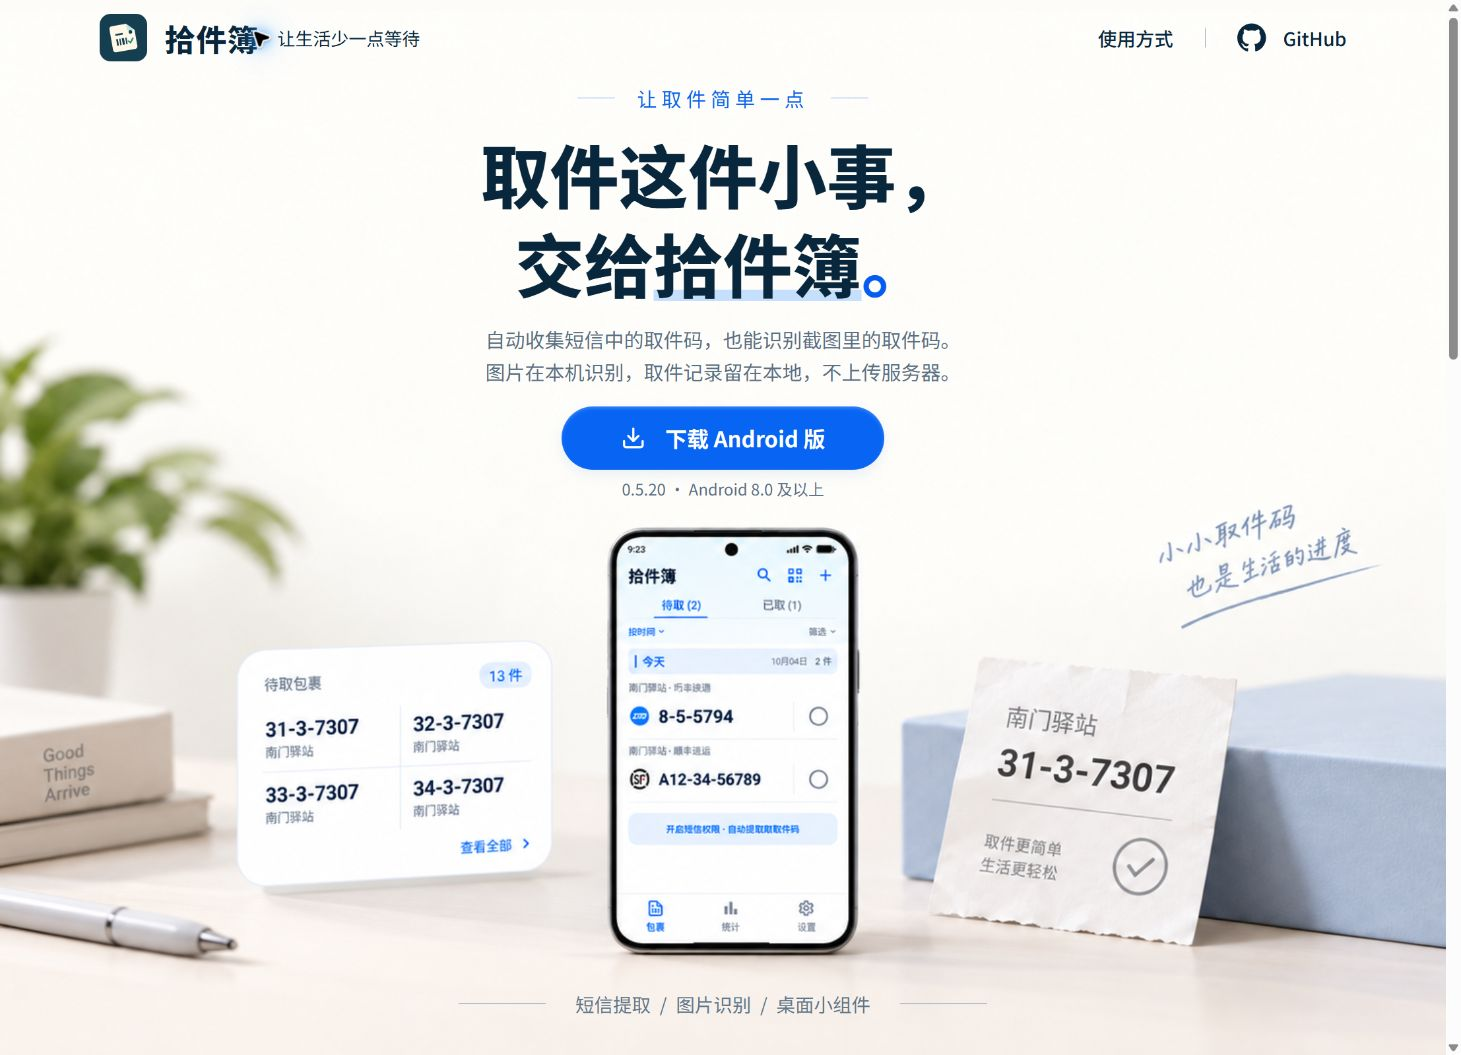
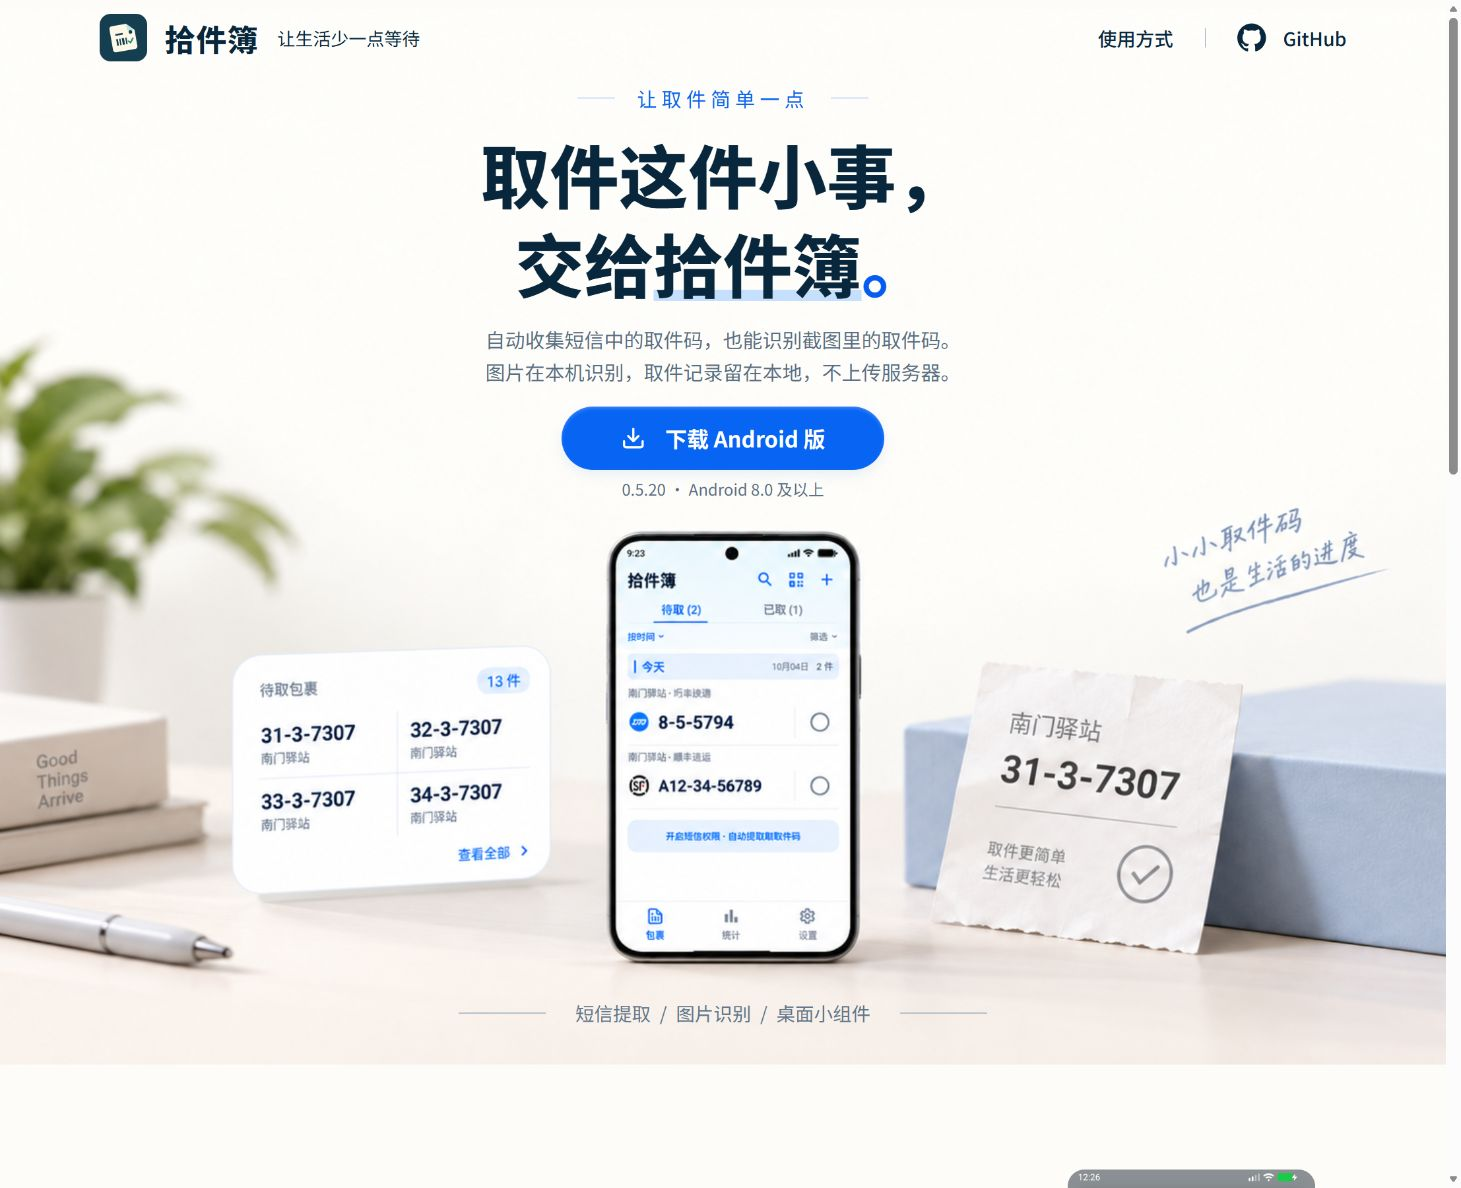
Add Shijianbu official website and GitHub Pages deployment

diff --git a/website/src/styles.css b/website/src/styles.css
@@ -11,9 +11,9 @@ p, h1, h2, h3, figure { margin: 0; }
 .sr-only { position: absolute; width: 1px; height: 1px; padding: 0; margin: -1px; overflow: hidden; clip: rect(0, 0, 0, 0); white-space: nowrap; border: 0; }
 .skip-link { position: fixed; z-index: 20; top: 10px; left: 12px; padding: 10px 16px; background: white; transform: translateY(-150%); }
 .skip-link:focus { transform: none; }
-.hero-shell { position: relative; isolation: isolate; height: calc(100vw * 1066 / 1476); min-height: 980px; max-height: 1250px; overflow: hidden; }
+.hero-shell { --scene-width: min(100vw, 1476px); position: relative; isolation: isolate; min-height: 980px; padding-bottom: calc(var(--scene-width) * 536 / 1476 + 32px); overflow: hidden; }
 .hero-art { position: absolute; z-index: -1; inset: 0; }
-.hero-scene { position: absolute; bottom: 0; width: 100%; height: auto; }
+.hero-scene { position: absolute; bottom: 0; width: var(--scene-width); max-width: none; height: auto; left: 50%; transform: translateX(-50%); }
 .site-header { max-width: 1260px; margin-inline: auto; height: 76px; display: flex; align-items: center; justify-content: space-between; gap: 24px; position: relative; z-index: 2; }
 .brand { display: inline-flex; align-items: center; gap: 18px; white-space: nowrap; }
 .brand img { width: 48px; height: 48px; }
@@ -79,10 +79,10 @@ h2 { font-size: 34px; line-height: 1.5; font-weight: 750; letter-spacing: -.025e
 .site-footer .footer-note { flex-basis: 100%; margin-top: 0; padding-top: 20px; border-top: 1px solid #e1e6e9; font-size: 12px; color: var(--muted); }
 @media (min-width: 1600px) { .hero-copy { padding-top: 30px; } h1 { font-size: 76px; } .hero-description { font-size: 22px; } }
 @media (max-width: 1439px) { .site-header, .section-wrap { margin-inline: 6%; } .hero-copy { padding-top: 0; } h1 { font-size: 60px; margin-top: 16px; } .hero-description { font-size: 18px; } .hero-copy .download-button { margin-top: 19px; } .how-section { gap: 32px; grid-template-columns: 1fr 1.2fr 220px; } .app-preview, .app-preview img { width: 220px; } h2 { font-size: 30px; } }
-@media (max-width: 1050px) { .brand-tagline { display: none; } .hero-shell { min-height: 950px; } .hero-scene { width: 1177px; max-width: none; left: 50%; transform: translateX(-50%); } .hero-description { font-size: 18px; } h1 { font-size: 58px; } .how-section { grid-template-columns: 1fr 1.3fr; gap: 42px; padding-block: 74px; } .app-preview { grid-column: 1 / -1; width: 240px; margin: 8px auto 0; } .app-preview img { width: 240px; } .faq-section { gap: 45px; } }
+@media (max-width: 1050px) { .brand-tagline { display: none; } .hero-shell { --scene-width: 1177px; min-height: 950px; } .hero-scene { width: 1177px; max-width: none; left: 50%; transform: translateX(-50%); } .hero-description { font-size: 18px; } h1 { font-size: 58px; } .how-section { grid-template-columns: 1fr 1.3fr; gap: 42px; padding-block: 74px; } .app-preview { grid-column: 1 / -1; width: 240px; margin: 8px auto 0; } .app-preview img { width: 240px; } .faq-section { gap: 45px; } }
 @media (max-width: 640px) {
   html { scroll-padding-top: 20px; }
-  .hero-shell { display: flex; flex-direction: column; height: auto; min-height: 0; max-height: none; }
+  .hero-shell { display: flex; flex-direction: column; height: auto; min-height: 0; max-height: none; padding-bottom: 0; }
   .site-header { order: 0; width: auto; margin-inline: 22px; height: 82px; gap: 12px; }
   .brand { gap: 10px; } .brand img { width: 36px; height: 36px; } .brand-name { font-size: 23px; }
   .site-header nav { gap: 17px; font-size: 14px; } .nav-divider { display: none; } .site-header nav a { gap: 7px; } .github-link svg { width: 22px; height: 22px; } .github-link > span:not(.sr-only) { display: none; }

diff --git a/website/design-qa.md b/website/design-qa.md
@@ -49,4 +49,10 @@ Numeric contrast checking found [P2] smaller semantic text colors at ratios 3.94
 - [x] Vite production build uses relative paths for GitHub project Pages.
 - Live deployment verification is recorded separately in `../deliverables/website-publication.json`.
 
+## Iteration 4 — wide-screen overlap regression, passed
+
+User evidence exposed a P2 regression outside the original viewport matrix. At 2560 CSS px, the absolutely positioned scene grew while the shell was capped at 1250 px; phone top crossed metadata bottom by 226.32 px. Removed the fixed/capped shell height. Content now determines height, with bottom space derived from the scene's phone position plus a 32 px gap. Scene width is capped at the 1476 px reference composition; tablet uses its existing 1177 px composition and mobile retains its separate scene row.
+
+Browser measurements at 3440, 2560, 1920 and 1476 px show a 32 px metadata-to-phone gap. At 1024/768 it is 57.97 px, and at 390/320 it is 83.01 px. All eight widths have no horizontal page overflow. Evidence: `../deliverables/website-overlap-checks.json`. Recaptured `qa/desktop-final.jpg` and `qa/mobile-final.jpg`; reference and updated desktop were inspected together, including the title, description, CTA, version and phone boundary. Typography, colors, copy, assets and the selected still-life composition remain intact. No console errors or warnings. Previous comparison board documents earlier iterations; this iteration's paired reference/capture review supersedes its spacing result.
+
 final result: passed

diff --git a/website/AGENTS.md b/website/AGENTS.md
@@ -9,3 +9,5 @@ Before making substantial visual changes, use the Product Design plugin's `get-c
 When implementing from a selected generated mock, treat that image as the source of truth for layout, component anatomy, density, spacing, color, typography, visible content, and hierarchy.
 
 Build app UI in `src/`. Keep `.openai/hosting.json`, `worker/index.js`, `scripts/prepare-sites-build.mjs`, and `tests/sites-worker.test.mjs` intact so the same local prototype can be handed to Sites. Before a Sites handoff, run `npm run build` and `npm run test:sites`; the build must leave `dist/client/index.html`, `dist/server/index.js`, and `dist/.openai/hosting.json`.
+
+首屏版本说明与手机展示图必须留出明确间距；宽屏与窗口缩放时也不能互相覆盖。
